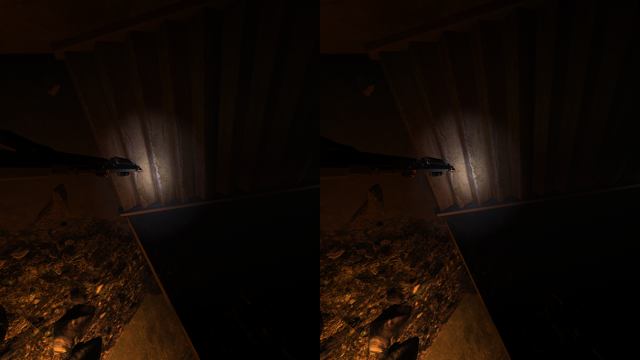
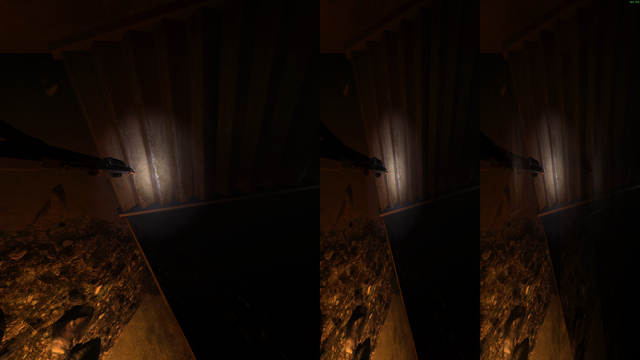
Supersample at the engine's render target, keeping the window as a mirror
The scene now draws into an offscreen target at whatever size is asked for --
verified at 4320x2224 against a 2560x1440 window -- with correct stereo and the
desktop showing a downscaled mirror. No window resize, no device recreate.

The obstacle was never the size. The main view is a VIRTUAL target (flags 0xFC8):
bit 0x800 means it draws straight into the back buffer through a viewport
sub-rect, and that bind is refused for anything larger than the back buffer.
RTHandle_Create masks flags with ~0x7 when 0x800 is set, so the same request
without it resolves to exactly 0x7C8 -- a real offscreen surface, sized verbatim,
unclamped. The scene renderer reads its extent from the handle, so viewport and
frustum followed with no work.

Three fixes made it a picture instead of a black screen: composite the target
down after RTHandle_Unbind restores the back buffer and before the HUD draws;
reach the colour texture by field read rather than through
RTHandle_GetRenderSurface, which returns a bool and writes its surface to a stack
out-parameter (calling it wrong put the flags word in ECX as `this` and crashed);
and teach CameraPassHook's main-view test to compare against the scene target
instead of the back buffer, which had silently stopped matching and killed stereo
without an error anywhere.

Opt-in through fear2vr.ini, read at init because the main view's target is built
once during renderer startup and never rebuilt -- an override armed later has
[…]

diff --git a/src/mods/SceneTarget.cpp b/src/mods/SceneTarget.cpp
@@ -31,8 +31,13 @@ constexpr const char* kCreateHookName = "RTHandle_Create";
 constexpr uintptr_t kRTHandleUnbind = 0x2130D9;
 constexpr const char* kUnbindHookName = "RTHandle_Unbind";
 
-// RTHandle_GetRenderSurface(handle) -> IDirect3DSurface9*, __thiscall.
-constexpr uintptr_t kGetRenderSurface = 0x212EDA;
+// The handle's colour texture, by field read rather than by call. RTHandle_GetColourTexture0
+// (0x612E60) is exactly `[[this+0x10]+0x14]`, and reading it directly avoids the engine's
+// GetRenderSurface wrapper -- which takes an out-parameter on the STACK and returns a bool, not the
+// surface. Calling that one as though it returned the surface is what dereferenced the flags word
+// as an object and crashed the game.
+constexpr size_t kHandleColourTarget = 0x10;
+constexpr size_t kColourTargetTexture = 0x14;
 
 // g_pBackBufferColourSurface, cached by Renderer_CacheBackBufferSurfaces at device creation.
 constexpr uintptr_t kBackBufferSurface = 0x32EC4C;
@@ -67,6 +72,8 @@ std::atomic<uint64_t> g_overrides{0};
 std::atomic<uintptr_t> g_main_handle{0};  // the one handle we enlarged, so only it is composited
 std::atomic<uint64_t> g_composites{0};
 std::atomic<uint64_t> g_composite_failures{0};
+std::atomic<uint32_t> g_forced_w{0};   // the size the main view is ACTUALLY rendering at
+std::atomic<uint32_t> g_forced_h{0};
 
 float load_scale() {
     const uint32_t bits = g_scale_bits.load(std::memory_order_relaxed);
@@ -100,14 +107,25 @@ char __fastcall rt_handle_unbind_detour(void* self, void* /*edx*/, void* a2, cha
         auto* dev = sdk::Render::device();
         const auto* exe = sdk::Modules::get().exe();
         if (dev != nullptr && exe != nullptr && exe->base != 0) {
-            using GetSurfaceFn = IDirect3DSurface9*(__fastcall*)(void*, void*);
-            auto* const src = reinterpret_cast<GetSurfaceFn>(exe->base + kGetRenderSurface)(self,
-                                                                                            nullptr);
+            const auto h = reinterpret_cast<uintptr_t>(self);
+            const auto target = *reinterpret_cast<uintptr_t*>(h + kHandleColourTarget);
+            auto* const tex =
+                target != 0
+                    ? *reinterpret_cast<IDirect3DTexture9**>(target + kColourTargetTexture)
+                    : nullptr;
             auto* const back =
                 *reinterpret_cast<IDirect3DSurface9**>(exe->base + kBackBufferSurface);
-            if (src != nullptr && back != nullptr &&
-                SUCCEEDED(dev->StretchRect(src, nullptr, back, nullptr, D3DTEXF_LINEAR))) {
-                g_composites.fetch_add(1, std::memory_order_relaxed);
+
+            IDirect3DSurface9* src = nullptr;
+            if (tex != nullptr && back != nullptr && SUCCEEDED(tex->GetSurfaceLevel(0, &src))) {
+                // GetSurfaceLevel adds a reference. Releasing it is not optional at this call
+                // rate -- a missed Release here is a leaked surface every single frame.
+                if (SUCCEEDED(dev->StretchRect(src, nullptr, back, nullptr, D3DTEXF_LINEAR))) {
+                    g_composites.fetch_add(1, std::memory_order_relaxed);
+                } else {
+                    g_composite_failures.fetch_add(1, std::memory_order_relaxed);
+                }
+                src->Release();
             } else {
                 g_composite_failures.fetch_add(1, std::memory_order_relaxed);
             }
@@ -155,6 +173,8 @@ char __fastcall rt_handle_create_detour(void* self, void* /*edx*/, int width, in
             // `self` IS the handle being constructed. Remembering it is what lets the unbind hook
             // composite exactly this target and leave every other offscreen target alone.
             g_main_handle.store(reinterpret_cast<uintptr_t>(self), std::memory_order_release);
+            g_forced_w.store(static_cast<uint32_t>(w), std::memory_order_release);
+            g_forced_h.store(static_cast<uint32_t>(hgt), std::memory_order_release);
         }
     }
 
@@ -330,4 +350,15 @@ uint64_t SceneTarget::overrides() const { return g_overrides.load(std::memory_or
 uint64_t SceneTarget::composites() const { return g_composites.load(std::memory_order_relaxed); }
 uint64_t SceneTarget::composite_failures() const {
     return g_composite_failures.load(std::memory_order_relaxed);
+}
+
+bool SceneTarget::main_view_size(int32_t& w, int32_t& h) {
+    const uint32_t fw = g_forced_w.load(std::memory_order_acquire);
+    const uint32_t fh = g_forced_h.load(std::memory_order_acquire);
+    if (fw == 0 || fh == 0) {
+        return false;
+    }
+    w = static_cast<int32_t>(fw);
+    h = static_cast<int32_t>(fh);
+    return true;
 }

diff --git a/src/mods/CameraPassHook.cpp b/src/mods/CameraPassHook.cpp
@@ -10,6 +10,7 @@
 #include "sdk/SceneCamera.hpp"
 
 #include "Hooks.hpp"
+#include "SceneTarget.hpp"
 #include "FrameCapture.hpp"
 #include "RenderHook.hpp"
 #include "Log.hpp"
@@ -335,7 +336,13 @@ char __stdcall setup_pass_detour(const regenny::LTNodeTransform* camera, const f
     if (const auto ts = sdk::SceneCamera::current_target_size()) {
         g_target_size[0].store((*ts)[0], std::memory_order_relaxed);
         g_target_size[1].store((*ts)[1], std::memory_order_relaxed);
-        if (const auto pp = sdk::Render::present_params()) {
+        int32_t mw = 0;
+        int32_t mh = 0;
+        if (SceneTarget::main_view_size(mw, mh)) {
+            // Supersampling moved the scene off the back buffer, so the back buffer's size no
+            // longer describes it.
+            is_main_view = (*ts)[0] == mw && (*ts)[1] == mh;
+        } else if (const auto pp = sdk::Render::present_params()) {
             is_main_view = (*ts)[0] == static_cast<int32_t>(pp->BackBufferWidth) &&
                            (*ts)[1] == static_cast<int32_t>(pp->BackBufferHeight);
         }
@@ -589,6 +596,11 @@ char __stdcall draw_scene_detour(void* a1, void* a2) {
         if (const auto pp = sdk::Render::present_params()) {
             draw_is_main = (*ts)[0] == static_cast<int32_t>(pp->BackBufferWidth) &&
                            (*ts)[1] == static_cast<int32_t>(pp->BackBufferHeight);
+            int32_t dw = 0;
+            int32_t dh = 0;
+            if (SceneTarget::main_view_size(dw, dh)) {
+                draw_is_main = (*ts)[0] == dw && (*ts)[1] == dh;
+            }
         }
     }
     if (draw_is_main && !g_pristine_main.load(std::memory_order_relaxed)) {

diff --git a/src/mods/SceneTarget.hpp b/src/mods/SceneTarget.hpp
@@ -77,6 +77,12 @@ public:
     uint32_t target_w() const;
     uint32_t target_h() const;
     uint64_t overrides() const;
+    // The size the main view is actually rendering at, when the override is active. Everything that
+    // recognised the main view by comparing against the BACK BUFFER has to ask this instead: once
+    // the scene draws into its own target, the back buffer's size stops describing the scene at all
+    // and the stereo path silently stops firing.
+    static bool main_view_size(int32_t& w, int32_t& h);
+
     uint64_t composites() const;
     uint64_t composite_failures() const;
 

diff --git a/reversing/ENGINE_NOTES.md b/reversing/ENGINE_NOTES.md
@@ -2366,6 +2366,52 @@ the driver hands back write-combined pages, and that has not been measured here.
 free of CPU time but not of PCIe: 66 MB out and 66 MB back per frame at 90 Hz is ~12 GB/s sustained,
 which contends with the compositor's own traffic.
 
+### Supersampling, landed: the main view is a VIRTUAL target and that was the whole obstacle
+
+The scene is not drawn into a render target of the engine's choosing. It is drawn into the BACK
+BUFFER, through a viewport sub-rect, by a target whose flags carry bit `0x800`
+(`Renderer_SetRenderTargetSurface` 0x6131C6). Measured live, the main view is `2560x1440 flags
+0xFC8`. That path REFUSES to bind anything larger than the back buffer -- `x + width <=
+BackBufferWidth` at 0x61329A -- which is why every attempt to ask for a bigger picture achieved
+nothing, and why resizing the back buffer looked like the only lever. It was not.
+
+`RTHandle_Create` (0x613549) masks the incoming flags with `~0x7` whenever `0x800` is present, so
+requesting the same target WITHOUT that bit resolves to exactly `0x7C8`: a real offscreen colour
+texture with its own depth-stencil, sized verbatim, with no clamp anywhere in the path. Width and
+height are the caller's, untouched by shift or mask, and the scene renderer reads its own extent
+back out of the handle (`SceneRenderer_BeginRenderTarget` stores `RT_GetWidth/Height` into
+`this[93]/[94]`), so the viewport and frustum follow the target automatically. Nothing had to be
+taught about the new size.
+
+Three things had to be fixed to make it a picture rather than a black screen:
+
+1. **The mirror has to be produced deliberately.** With `0x800` gone the back buffer never receives
+   the scene -- it was the destination, not a copy of it. `RTHandle_Unbind` restores the back buffer
+   as the target on the non-virtual path and the HUD is drawn after that, which makes the moment
+   just after it the one correct seam: `StretchRect` the target down, before the HUD, never after.
+
+2. **`RTHandle_GetRenderSurface` does not return a surface.** It takes an out-parameter on the STACK
+   and returns a bool. Calling it as though it returned the surface put the flags word `0x7C8` into
+   `ECX` as a `this` pointer and crashed reading `0x7D0`. The colour texture is reachable by field
+   read instead -- `[[handle+0x10]+0x14]` -- and `GetSurfaceLevel` gives a surface whose refcount is
+   ours to release. That crash was mine, not an engine invariant; the distinction cost a session.
+
+3. **Anything that recognised the main view by its SIZE stops working.** `CameraPassHook` compared
+   the bound target against `BackBufferWidth/Height`, which silently stopped matching the moment the
+   scene moved off the back buffer -- so stereo simply never fired and the frame went mono with no
+   error anywhere. Once the scene has its own target, the back buffer's size describes the WINDOW
+   and nothing else.
+
+Verified live at `4320x2224` -- larger than the 2560x1440 window -- with correct stereo parallax and
+a working desktop mirror.
+
+**What is still on the back buffer:** capture. `FrameCapture` reads `GetBackBuffer`, so what reaches
+the headset is the 2560x1440 composite, and the wearer currently gets supersampled DOWNSAMPLING (a
+real quality win, and free anti-aliasing) rather than the full 2160x2224 per eye. Reading the scene
+target directly is the remaining step, and it is gated on transport: 4320x2224 is 38.4 MB a slot
+against a `kSharedFrameMaxBytes` of 14.7 MB, in a 32-bit address space that has already failed to
+map 58 MB contiguously. Per-eye slots halve the contiguous requirement and are the way in.
+
 ### Getting supersampling inside the budget
 
 The corrected numbers make the CPU bridge viable, but viable is the wrong target for a machine whose
